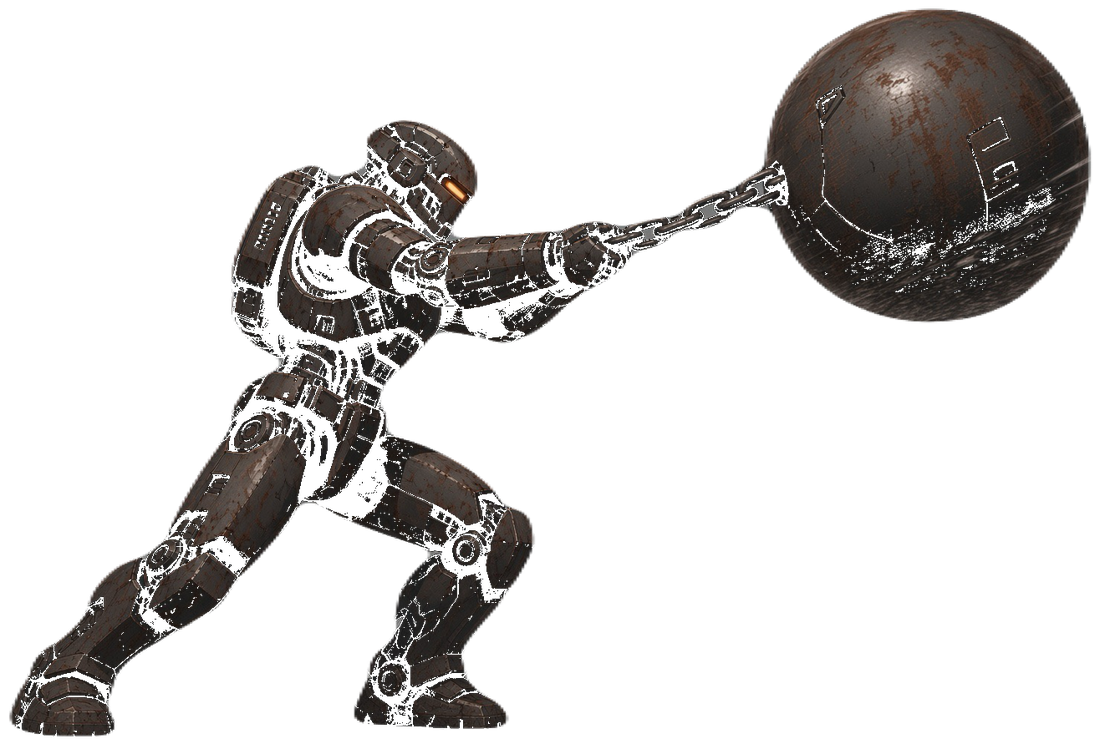
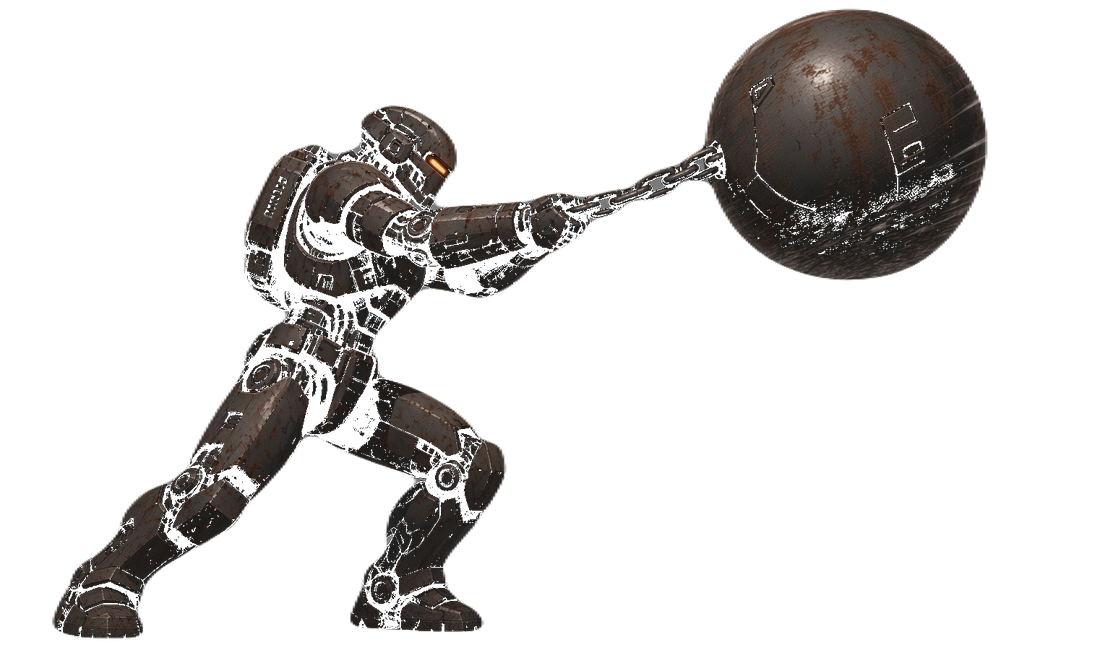
Esqueletos de ataque alineados y CPU 30% más lenta.

Changed region(s): [[0.0, 0.0, 1.0, 0.9922]]

diff --git a/game.js b/game.js
@@ -205,6 +205,9 @@
     oxidoAtkHigh: loadImg("assets/oxido-atk-high.png"),
     oxidoAtkMid: loadImg("assets/oxido-atk-mid.png"),
     oxidoAtkLow: loadImg("assets/oxido-atk-low.png"),
+    oxidoSkelHigh: loadImg("assets/oxido-skel-high.png"),
+    oxidoSkelMid: loadImg("assets/oxido-skel-mid.png"),
+    oxidoSkelLow: loadImg("assets/oxido-skel-low.png"),
     metro: loadImg("assets/arena-metro.jpg"),
   };
   SHOP[0].thumbImg = IMAGES.orugaThumb;
@@ -855,6 +858,13 @@
     if (f.state === "punch") return f.poseMid || IMAGES.oxidoAtkMid;
     return null;
   }
+  function oxidoSkelPose(f) {
+    var atk = f.attack;
+    if (f.state === "kick" || (atk && atk.height === "low")) return IMAGES.oxidoSkelLow;
+    if (atk && atk.height === "high") return IMAGES.oxidoSkelHigh;
+    if (f.state === "punch" || f.state === "kick") return IMAGES.oxidoSkelMid;
+    return f.skelImg || IMAGES.oxidoSkel;
+  }
 
   function cutOxidoImg(img) {
     if (!img) return img;
@@ -864,9 +874,9 @@
   }
 
   function drawDamagedOxido(ctx, f, raw, ox, oy, dw, dh) {
-    var skel = f.skelImg || IMAGES.oxidoSkel;
+    var skel = oxidoSkelPose(f);
     if (skel && skel.complete && skel.naturalWidth) {
-      var sk = cutOutNearBlack(skel);
+      var sk = (skel.src && skel.src.indexOf(".png") >= 0) ? skel : cutOutNearBlack(skel);
       ctx.drawImage(sk, ox, oy, dw, dh);
     } else {
       ctx.save();
@@ -1705,7 +1715,9 @@
     return Math.round(82 + def.resistencia * 15);
   }
   function speedOf(def) {
-    return 150 + def.velocidad * 26;
+    var s = 150 + def.velocidad * 26;
+    if (def.isPlayer === false) s *= 0.7;
+    return s;
   }
   function makeFighter(def, isPlayer) {
     const b = BODY[def.body] || BODY.tanque;

diff --git a/index.html b/index.html
@@ -8,7 +8,7 @@
   <meta name="apple-mobile-web-app-status-bar-style" content="black-translucent" />
   <meta name="theme-color" content="#05070f" />
   <title>Peleas de Robots</title>
-  <link rel="stylesheet" href="style.css?v=19" />
+  <link rel="stylesheet" href="style.css?v=20" />
 </head>
 <body>
   <div id="app">
@@ -184,6 +184,6 @@
       </div>
     </section>
   </div>
-  <script src="game.js?v=19"></script>
+  <script src="game.js?v=20"></script>
 </body>
 </html>
